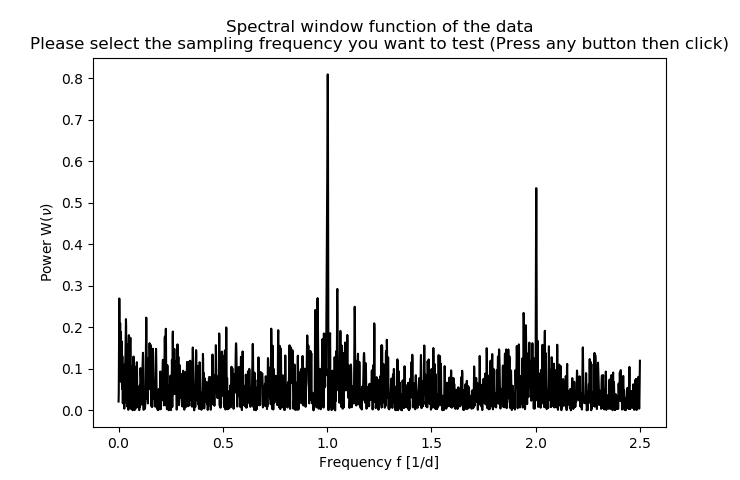
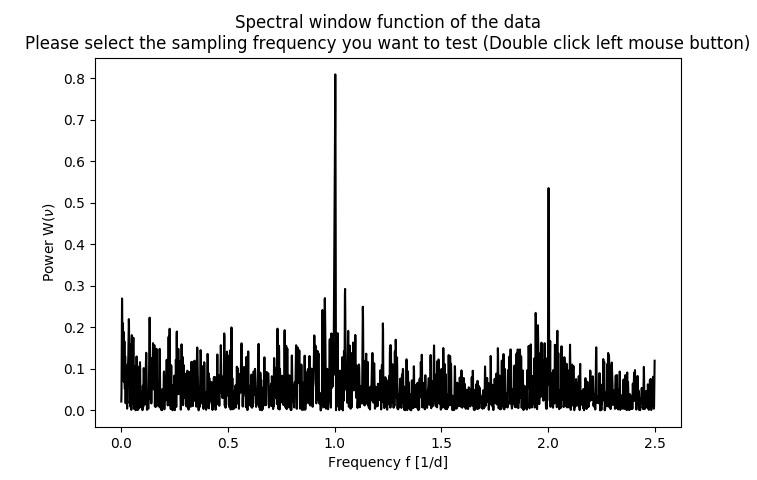
Updated the example

diff --git a/README.md b/README.md
@@ -123,9 +123,6 @@ Output:
 Welcome to the AliasFinder V1.0.
 
 Please select the sampling frequency you want to test from the plot
-
-Zoom or pan to view,
-press any button when ready to select the sampling frequency - then click:
 ```
 
 ![Picture of the Window Function](./Example/window_function_plot.png "Window_Function")
